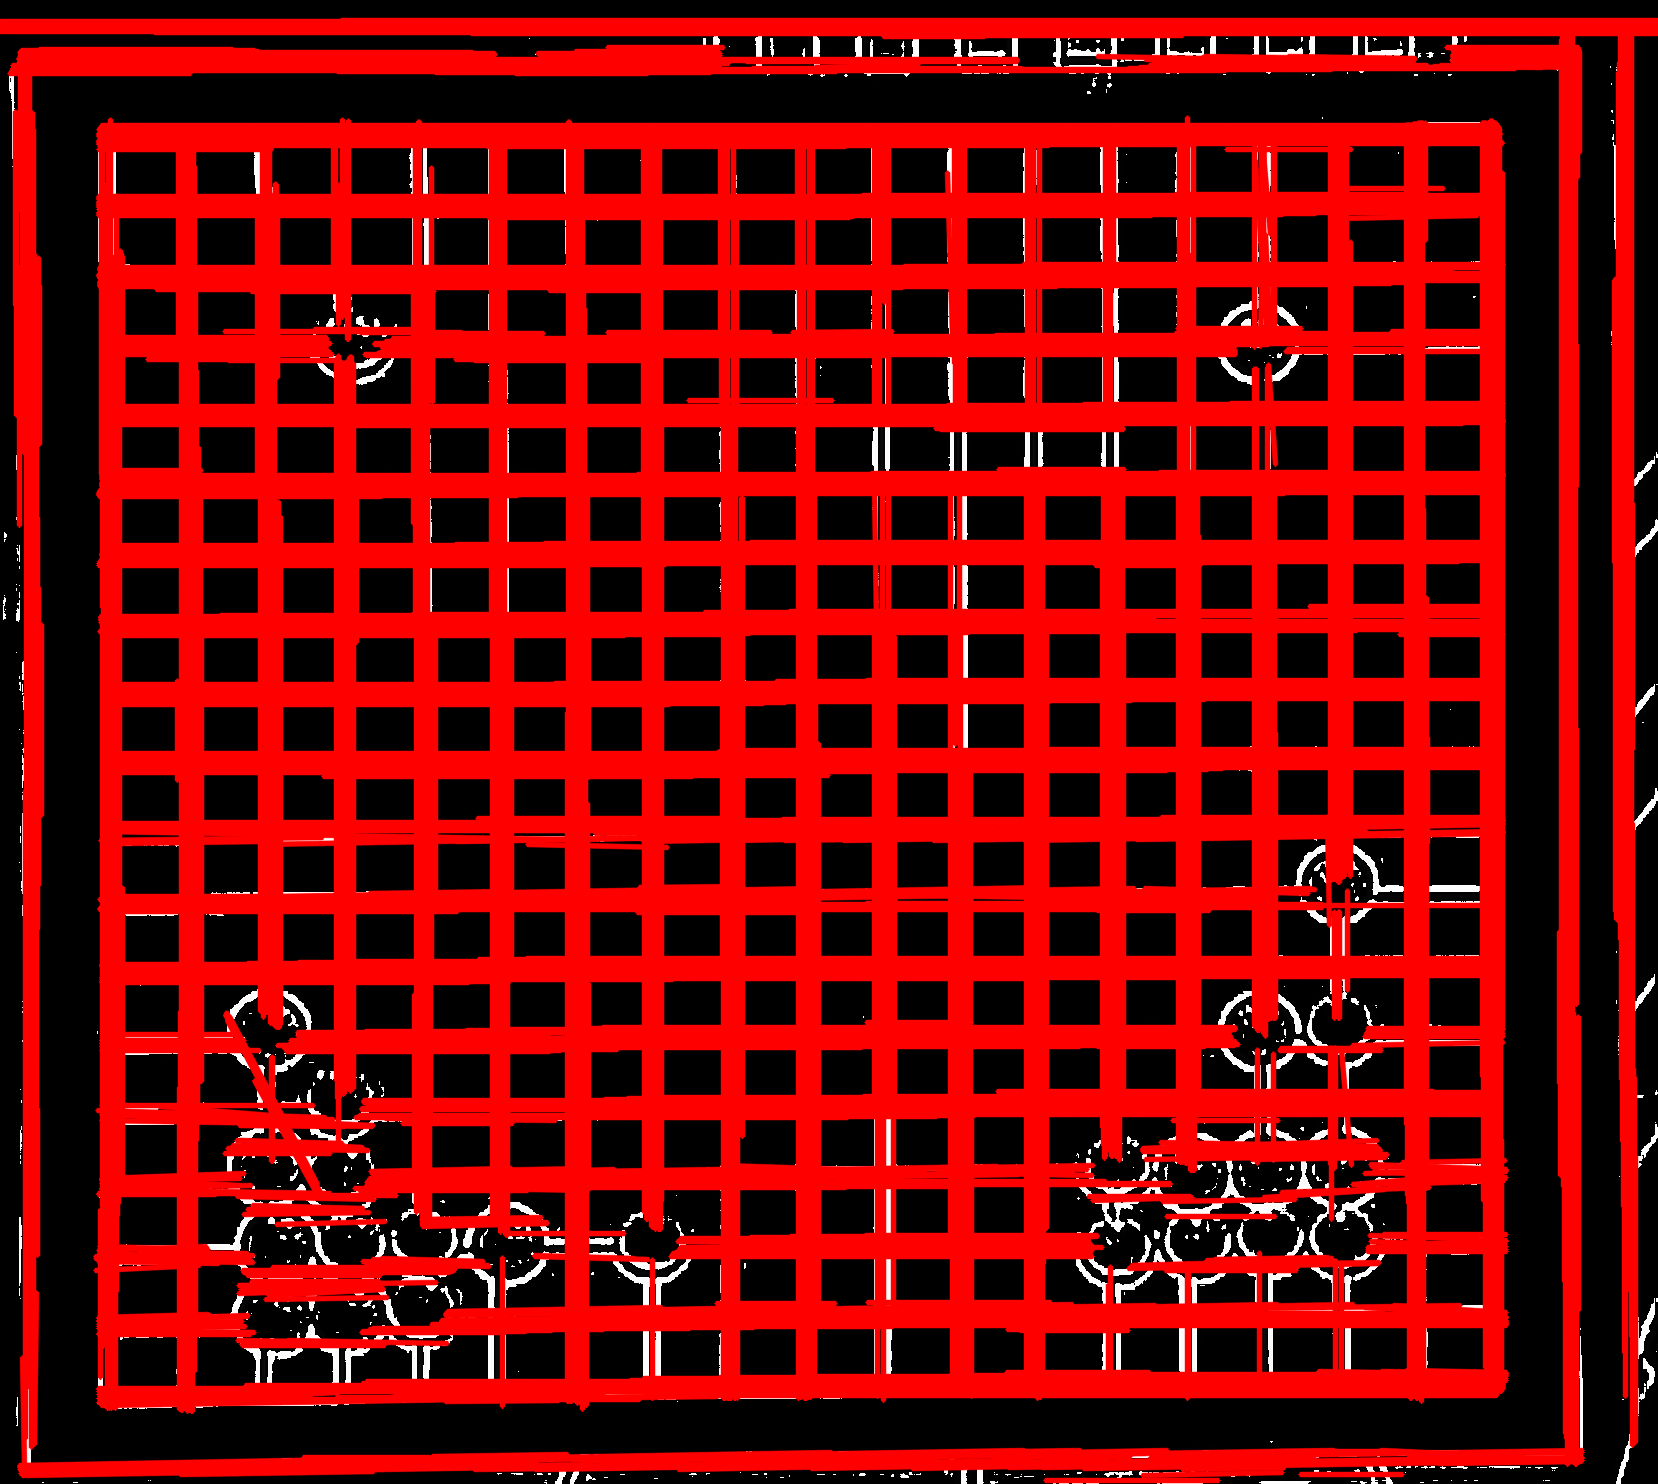
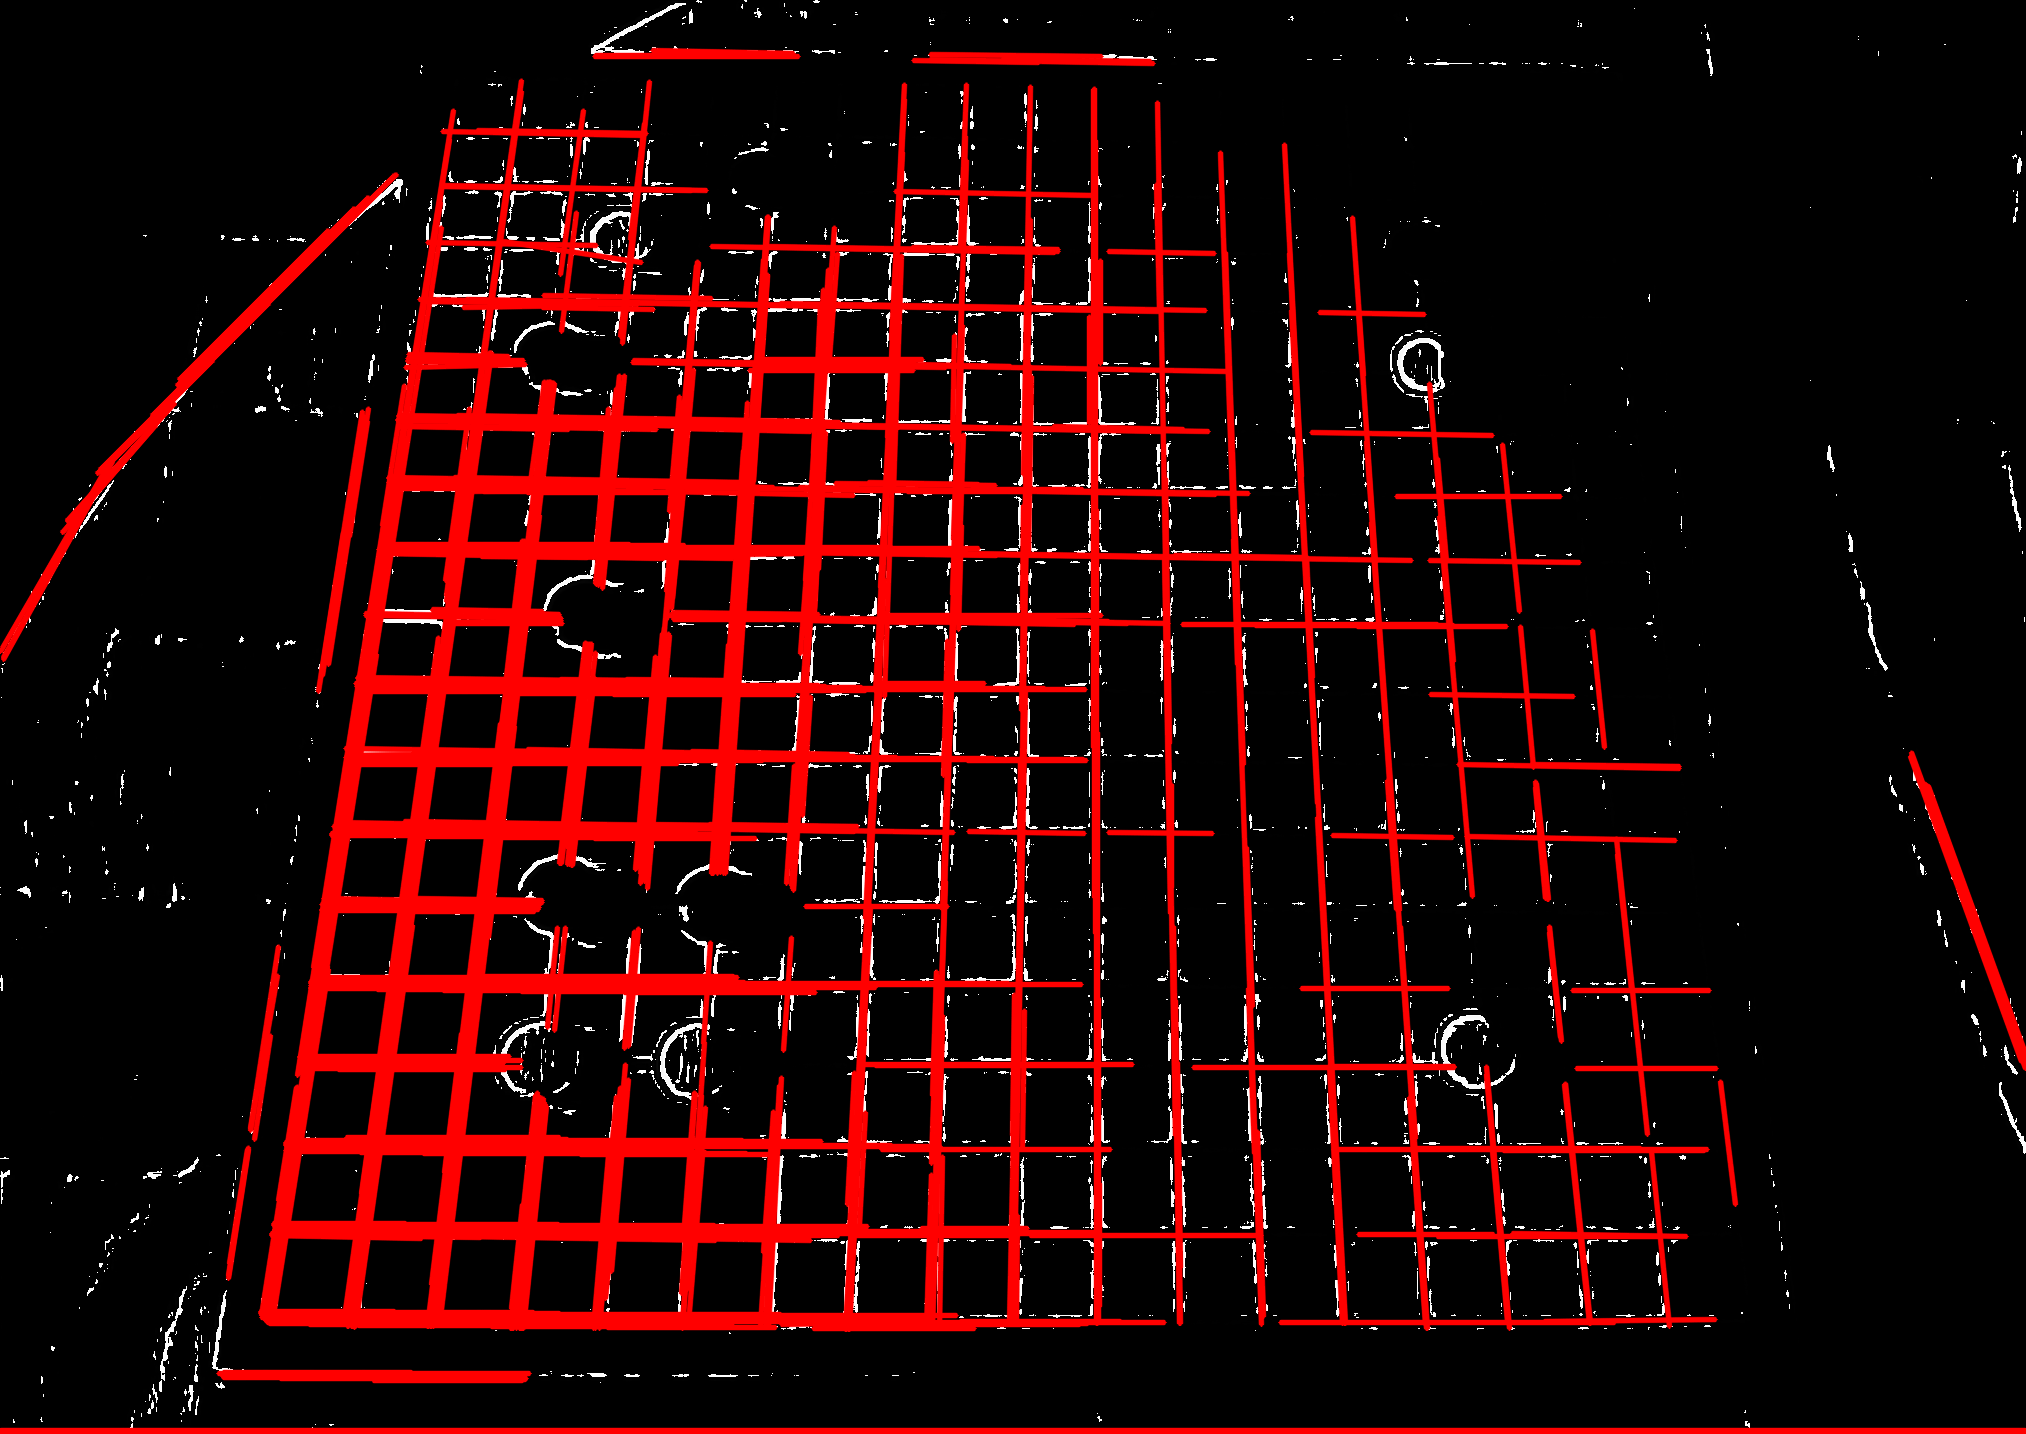
working

diff --git a/BoardRecognition/image_processing.py b/BoardRecognition/image_processing.py
@@ -37,11 +37,19 @@ class BoardRecognition:
         # utils.writeImageWithLines(img,lines,"find four corners lines.png")
 
         # find lines
-        lines = cv2.HoughLinesP(img,1, np.pi/180.0,150,minLineLength=100,maxLineGap=10)
+        lines = cv2.HoughLinesP(img,1, np.pi/180.0,200,minLineLength=100,maxLineGap=10)
         utils.writeImageWithLineSegments(img,lines,"find four corners line using points.png")
 
         corners = []
-        # find coners
+        # find horizontal lines
+
+        # find verticle lines
+
+        # find unique lines for both verticle and horizontal
+
+        # remove lines not in the board
+
+        # find 4 coners
 
         return corners
 

diff --git a/BoardRecognition/utils.py b/BoardRecognition/utils.py
@@ -73,3 +73,17 @@ def writeImageWithLineSegments(image, lines, name):
             cv2.line(output, (x1, y1), (x2, y2), (0, 0, 255), 3, cv2.LINE_AA)
 
     cv2.imwrite(os.path.join(path, name), img=output)
+
+def writeImageWithPoints(image, points, name):
+    path = "./data/result"
+    output = image.copy()
+    if len(output.shape) == 2:
+        output = cv2.cvtColor(output.astype(np.uint8), cv2.COLOR_GRAY2BGR)
+
+    if not os.path.exists(path):
+        os.makedirs(path)
+
+    for point in points:
+        cv2.circle(output, point[0], radius=5, color=(0, 255, 0), thickness=-1)
+
+    cv2.imwrite(os.path.join(path, name), img= output)
